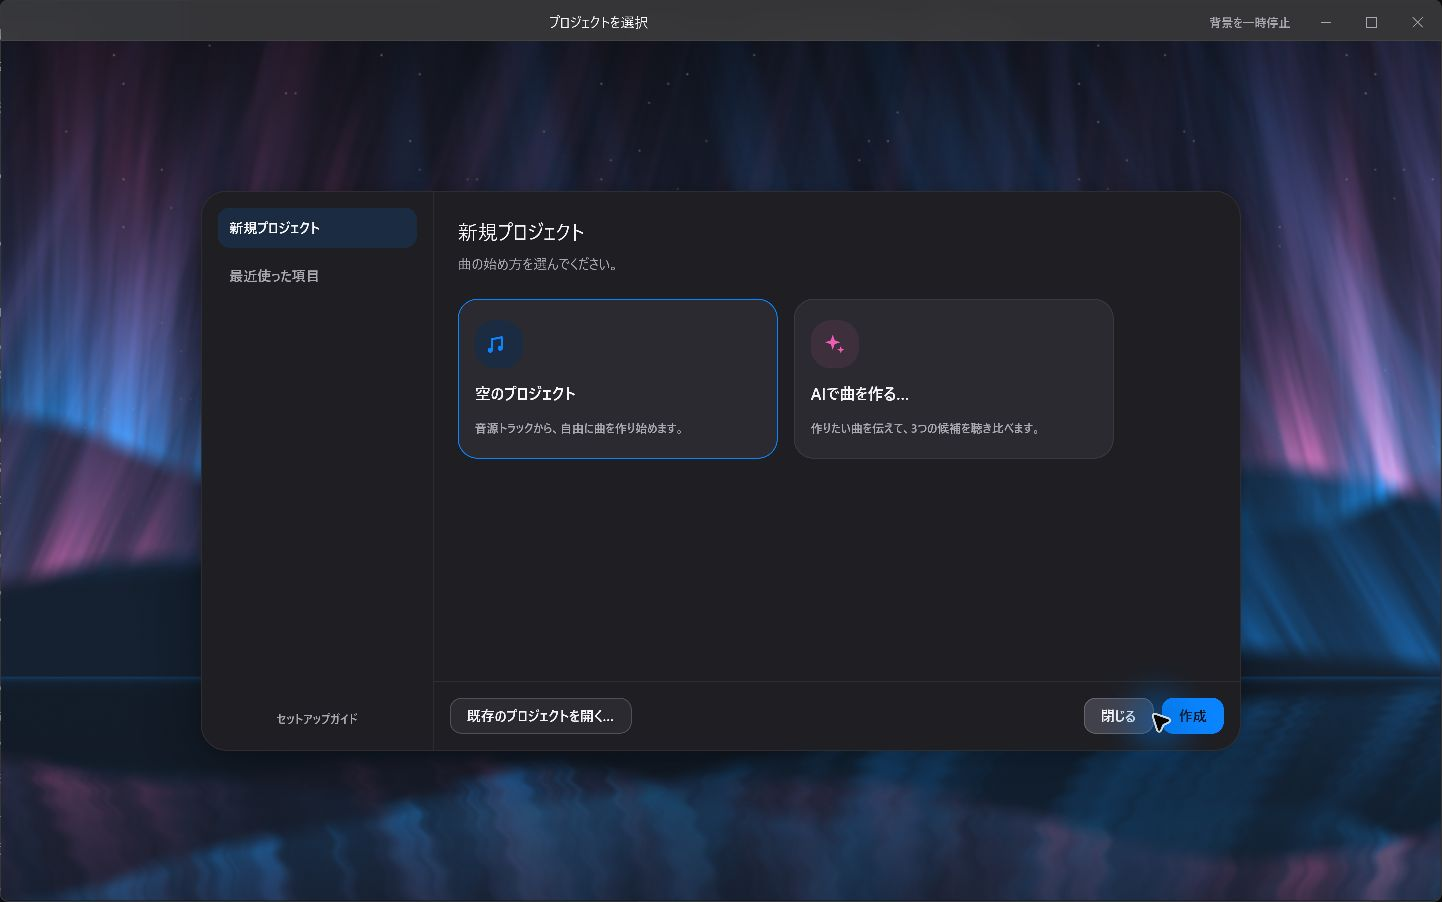
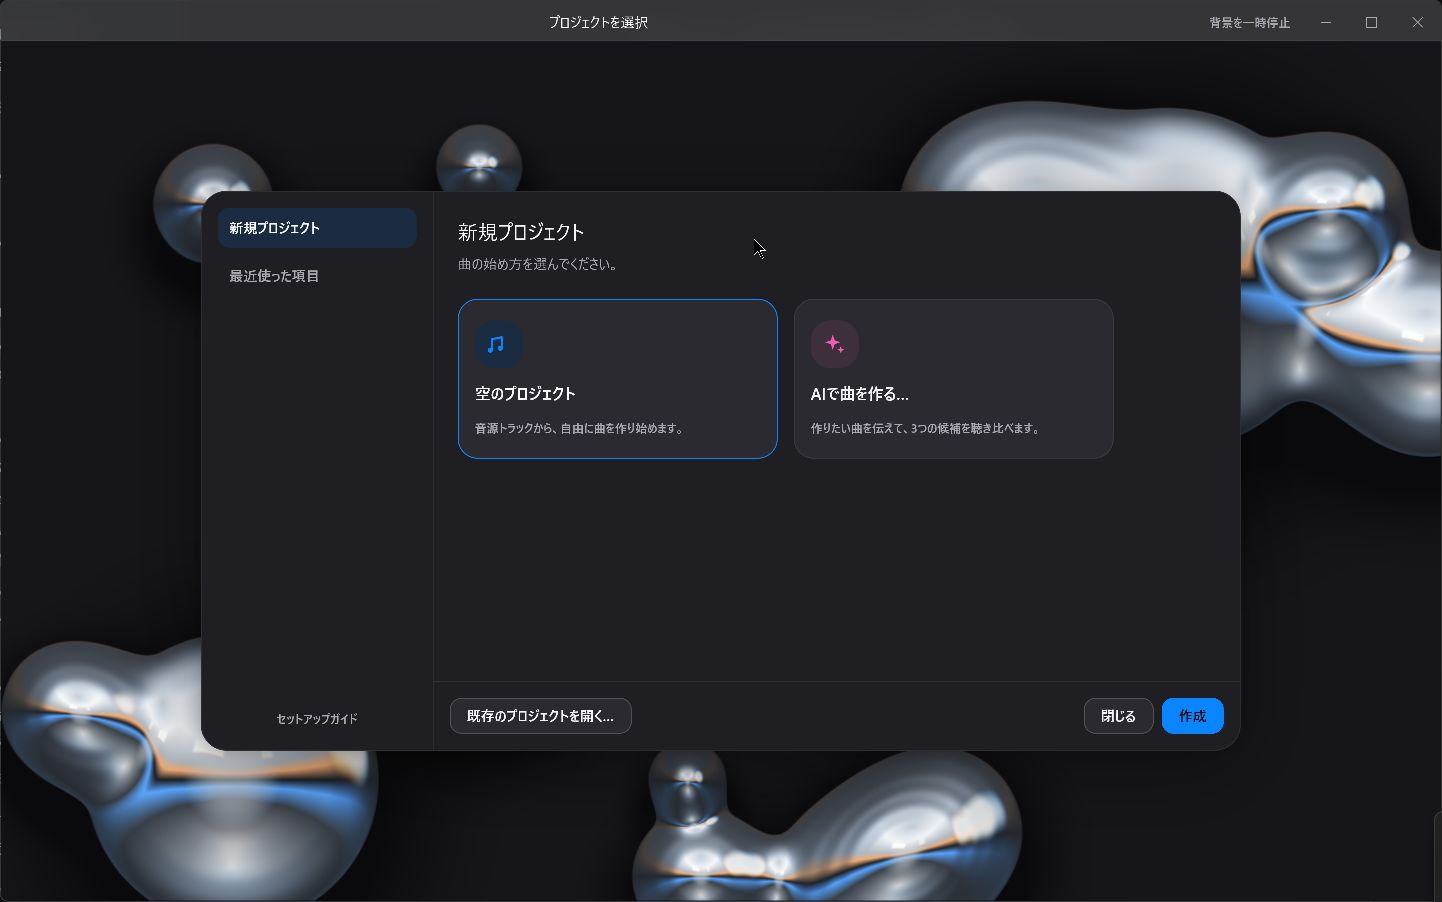
Use liquid metal for the welcome backdrop

diff --git a/crates/auris-gpui/src/ui/project_chooser.rs b/crates/auris-gpui/src/ui/project_chooser.rs
@@ -455,23 +455,21 @@ impl AurisApp {
                     .items_center()
                     .justify_center()
                     .p(theme.atelier.spacing.xl)
-                    // Ambient owns its GPU cache and animation lifetime. No backdrop is mounted
+                    // The backdrop owns its GPU cache and animation lifetime. It is not mounted
                     // in the editor or workshop; inactive welcome windows hold a still frame.
                     .when(!cfg!(test), |view| {
                         view.child(
                             div().absolute().inset_0().child(
-                                atelier::AmbientBackdrop::new(
-                                    "chooser-aurora",
-                                    atelier::Ambience::Aurora,
-                                )
-                                .when(!animate || !window.is_window_active(), |backdrop| {
-                                    backdrop.phase(0.12)
-                                }),
+                                atelier::MetalBackdrop::new("chooser-metal")
+                                    .when(!animate || !window.is_window_active(), |backdrop| {
+                                        backdrop.phase(0.12)
+                                    }),
                             ),
                         )
                     })
                     .child(
                         div()
+                            .occlude()
                             .relative()
                             .flex()
                             .size_full()

diff --git a/docs/design-language.md b/docs/design-language.md
@@ -32,7 +32,8 @@ outlines, and the trailing agent dock opens at 380 px. Both conversation entry p
 same introductory state, message forms and inset composer. Saved dock widths remain intact.
 
 The chooser places the navigation, descriptive start cards and commit footer on an opaque panel
-over `AmbientBackdrop` with `Ambience::Aurora`, as in the upstream `ambient` example. A card
+over `MetalBackdrop`, as in the liquid-metal variant of the upstream `ambient` example. The
+panel occludes pointer events so its controls do not also manipulate the metal beneath it. A card
 selects a starting method; Create or Enter commits it, and double-click also opens it. Background
 motion can be paused in the title bar; the choice persists as `animate_welcome` in
 `appearance.json`. Inactive windows hold a still frame. The backdrop is unmounted on entering
